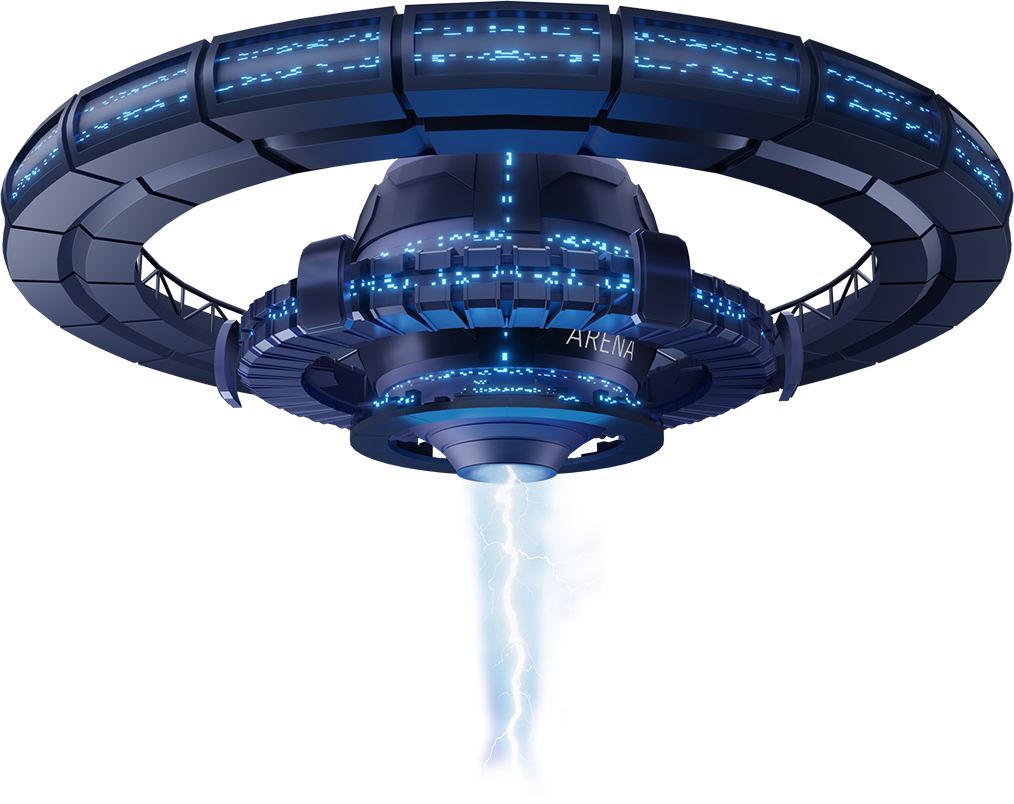
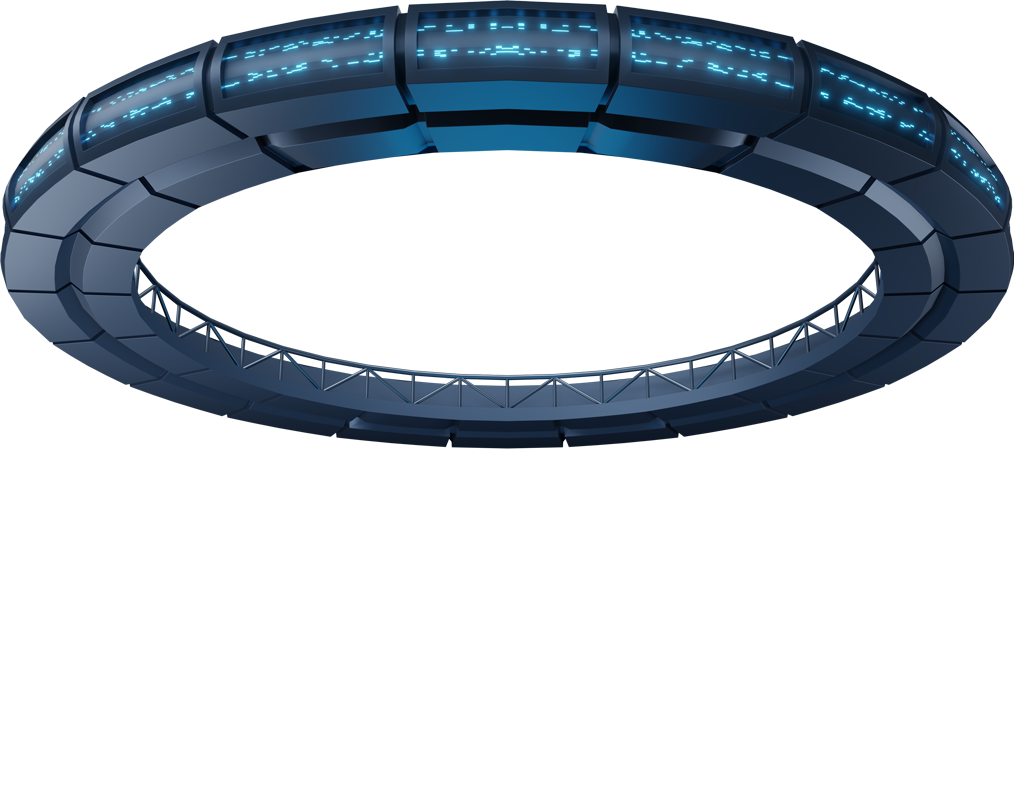
Update home page and arena

Changed region(s): [[0.0, 0.0, 1.0, 0.9639], [0.7032, 0.1555, 0.7949, 0.2177], [0.7949, 0.2488, 0.8254, 0.2799]]

diff --git a/src/components/threejs/model.ts b/src/components/threejs/model.ts
@@ -1,4 +1,4 @@
-import { Vector3, LoadingManager, CubeTextureLoader, sRGBEncoding, DirectionalLight, Mesh, PerspectiveCamera, Scene, WebGLRenderer } from "three"
+import { Vector3, LoadingManager, CubeTextureLoader, LinearEncoding, sRGBEncoding, DirectionalLight, Mesh, PerspectiveCamera, Scene, WebGLRenderer } from "three"
 import { OrbitControls } from 'three/examples/jsm/controls/OrbitControls'
 import { GLTFLoader } from 'three/examples/jsm/loaders/GLTFLoader'
 import type { GLTF } from 'three/examples/jsm/loaders/GLTFLoader'
@@ -11,6 +11,7 @@ export class Model {
   private dom: HTMLElement
   private controls: OrbitControls
   private light1: DirectionalLight
+  private light2: DirectionalLight
   private loader: GLTFLoader
   private isAnimating: boolean
   private weaponCoord: number[]
@@ -49,7 +50,7 @@ export class Model {
 
     this.renderer = new WebGLRenderer({ antialias: true, alpha: true });
 
-    this.renderer.outputEncoding = sRGBEncoding;
+    this.renderer.outputEncoding = LinearEncoding;
     this.renderer.physicallyCorrectLights = true
     this.renderer.setClearColor(0x000000, 0); // the default
     this.renderer.setPixelRatio(window.devicePixelRatio);
@@ -60,20 +61,20 @@ export class Model {
     this.controls.update();
 
     if (arenaBg) {
-      this.controls.minDistance = 20;
-      this.controls.maxDistance = 32;
+      this.controls.minDistance = 25;
+      this.controls.maxDistance = 35;
 
       this.scene.background = new CubeTextureLoader()
         .setPath('/img/arena/')
         .load([
-          'nx (2).png',
-          'px (2).png',
-          'py (2).png',
-          'ny (2).png',
-          'pz (2).png',
-          'nz (2).png'
+          'px.png',
+          'nx.png',
+          'py.png',
+          'ny.png',
+          'pz.png',
+          'nz.png'
         ]);
-
+      
       this.loader.load('/media/postament.glb', (gltf) => {
         gltf.scene.name = 'postament'
         gltf.scene.position.setY(0.5)
@@ -81,9 +82,9 @@ export class Model {
         this.scene.add(gltf.scene)
       });
 
-      const light2 = new DirectionalLight(0xFFFFFF, 2);
-      light2.position.set(0, 100, 0);
-      this.scene.add(light2);
+      const light = new DirectionalLight(0xFFFFFF, 4);
+      light.position.set(0, 100, 0);
+      this.scene.add(light);
 
       this.controls.maxPolarAngle = Math.PI / 1.7;
 
@@ -97,14 +98,17 @@ export class Model {
 
 
     const camPos = this.camera.position
-    this.light1 = new DirectionalLight(0xFFFFFF, 3.5);
-    this.light1.position.set(camPos.x, 0, camPos.z);
+    this.light1 = new DirectionalLight(0xFFFFFF, 4.5);
+    this.light1.position.set(camPos.x, camPos.y + 50, camPos.z);
     this.scene.add(this.light1);
+    this.light2 = new DirectionalLight(0xFFFFFF, 3.5);
+    this.light2.position.set(camPos.x, camPos.y + -10, camPos.z);
+    this.scene.add(this.light2);
     this.scene.scale.set(globalScale, globalScale, globalScale);
 
     manager.onLoad = () => {
       this.dom.appendChild(this.renderer.domElement);
-      document.getElementById('loader').style.display = 'none';
+      document.getElementById('loader').style.opacity = '0';
       window.addEventListener("resize", this.onWindowResize.bind(this), false);
       if (!this.isAnimating) {
         this.animate();
@@ -149,9 +153,8 @@ export class Model {
   private animate(): void {
     requestAnimationFrame(this.animate.bind(this));
     this.controls.update();
-    this.light1.position.setX(this.camera.position.x);
-    this.light1.position.setZ(this.camera.position.z);
-    this.light1.position.setY(this.camera.position.y);
+    this.light1.position.set(this.camera.position.x, this.camera.position.y + 50, this.camera.position.z);
+    this.light2.position.set(this.camera.position.x, this.camera.position.y - 10, this.camera.position.z);
     this.renderer.render(this.scene, this.camera);
   }
 }

diff --git a/src/components/threejs/arena.ts b/src/components/threejs/arena.ts
@@ -16,7 +16,7 @@ export class Model {
     this.camera = new PerspectiveCamera(cam, this.dom.offsetWidth / this.dom.offsetHeight);
 
     this.scene = new Scene();
-    this.scene.translateY(0.15)
+    this.scene.translateY(0.3)
 
     const manager = new LoadingManager();
     manager.onProgress = function (item, loaded, total) {
@@ -35,8 +35,8 @@ export class Model {
     const material = new SpriteMaterial({ map: map, color: 0xffffff, fog: false });
 
     const sprite = new Sprite(material);
-    sprite.translateY(-1.3);
-    sprite.scale.set(8,8,8)
+    sprite.translateY(1.4);
+    sprite.scale.set(6,6,6)
     this.scene.add(sprite);
 
     this.renderer = new WebGLRenderer({ antialias: true, alpha: true });
@@ -52,17 +52,18 @@ export class Model {
     const polarAngle = Math.PI / 1.7
     this.controls.minPolarAngle = polarAngle;
     this.controls.maxPolarAngle = polarAngle;
+    this.controls.enableRotate = false;
     this.controls.enableZoom = false;
     this.controls.enablePan = false;
     this.controls.autoRotate = true;
 
-    this.light = new DirectionalLight(0xFDFDFD, 6.5);
+    this.light = new DirectionalLight(0xAAAAAA, 8.5);
     this.light.position.set(this.camera.position.x, this.camera.position.y, this.camera.position.z);
     this.scene.add(this.light);
 
     manager.onLoad = () => {
       this.dom.appendChild(this.renderer.domElement);
-      //document.getElementById('loader').style.display = 'none';
+      document.getElementById('loader').style.opacity = '0';
       window.addEventListener("resize", this.onWindowResize.bind(this), false);
       this.animate();
     };

diff --git a/src/routes/index.svelte b/src/routes/index.svelte
@@ -190,16 +190,17 @@
     <img src="/img/home/main.jpg" class="home-image" alt="Home page">
     <div class="home-arena cursor-pointer" on:click={() => goto('/arena')}>
       <img src="/img/home/arena.png" class="w-100" alt="Home arena">
+      <Arena />
+      <img src="/img/home/molnia.png" class="lottie" alt="Home arena">
       <lottie-player
         autoplay
         loop
         mode="normal"
-        src="/lottie/arena.json"
+        src="/lottie/molnii.json"
         class="lottie"
 
       >
       </lottie-player> 
-      <Arena />
     </div>
     <img src="/img/home/secondary.png" class="home-secondary" alt="Home secondary">
     <div class="home-stake cursor-pointer">
@@ -256,6 +257,12 @@
 
   </div>
 
+  <div id="loader" style="background: #000; position: absolute; left: 0; top: 0; height: 100%; width: 100%; pointer-events: none; transition: all 1s;">
+    <div style="position: absolute; left: 50%; top: 50%; transform: translate(-50%, -50%); ">
+      <div class="lds-spinner"><div></div><div></div><div></div><div></div><div></div><div></div><div></div><div></div><div></div><div></div><div></div><div></div></div>
+    </div>
+  </div>
+
   <a href="/" class="logo-home">
     <Logo height={36} />
   </a>		
@@ -263,4 +270,6 @@
   <div class="auth-home">
     <Auth />
   </div>  
+
+
 </div>

diff --git a/src/routes/arena/index.svelte b/src/routes/arena/index.svelte
@@ -62,8 +62,10 @@
   <div id="threejs" class="threejs">
     
   </div>
-  <div id="loader" style="position: absolute; left: 50%; top: 50%; transform: translate(-50%, -50%); ">
-    <div class="lds-spinner"><div></div><div></div><div></div><div></div><div></div><div></div><div></div><div></div><div></div><div></div><div></div><div></div></div>
+  <div id="loader" style="background: #000; position: absolute; left: 0; top: 0; height: 100%; width: 100%; pointer-events: none; transition: all 1s;">
+    <div style="position: absolute; left: 50%; top: 50%; transform: translate(-50%, -50%); ">
+      <div class="lds-spinner"><div></div><div></div><div></div><div></div><div></div><div></div><div></div><div></div><div></div><div></div><div></div><div></div></div>
+    </div>
   </div>
 
 

diff --git a/src/components/threejs/Lemon.svelte b/src/components/threejs/Lemon.svelte
@@ -43,7 +43,7 @@
   <div id="threejs" class="threejs">
     
   </div>
-  <div id="loader" style="position: absolute; left: 50%; top: 50%; transform: translate(-50%, -50%); ">
+  <div id="loader" style="position: absolute; left: 50%; top: 50%; transform: translate(-50%, -50%); pointer-events: none;">
     <div class="lds-spinner"><div></div><div></div><div></div><div></div><div></div><div></div><div></div><div></div><div></div><div></div><div></div><div></div></div>
   </div>
 </div>
